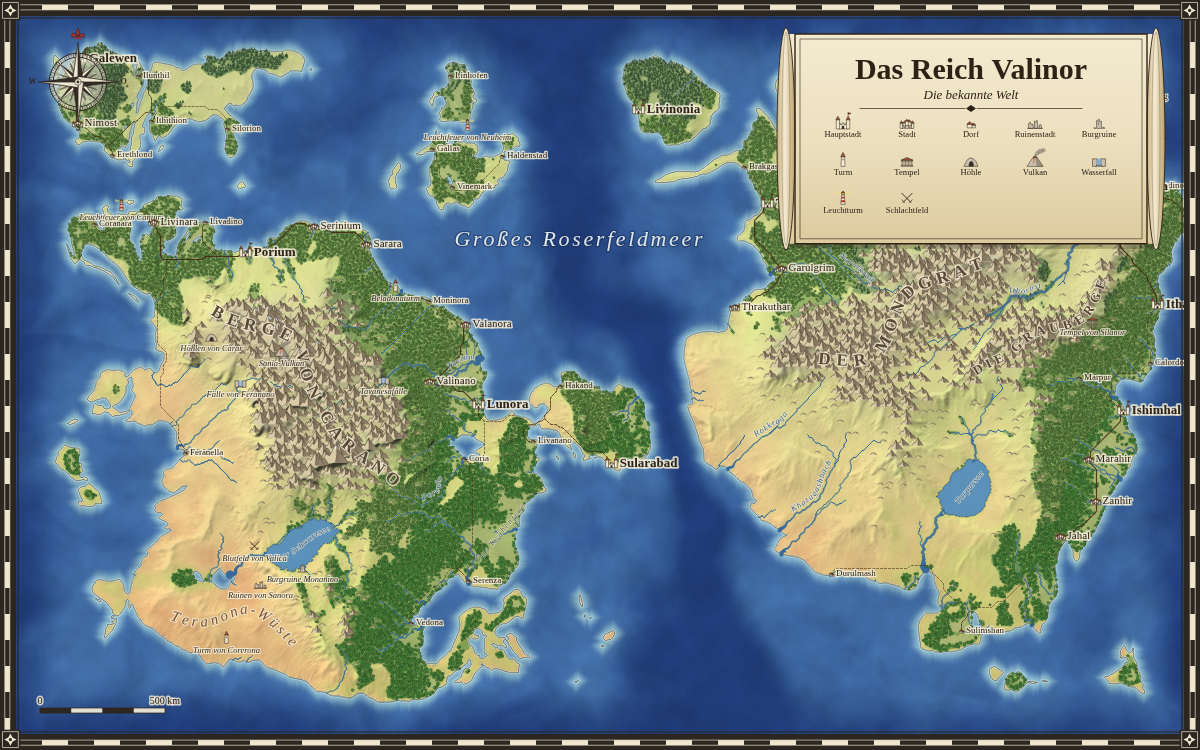
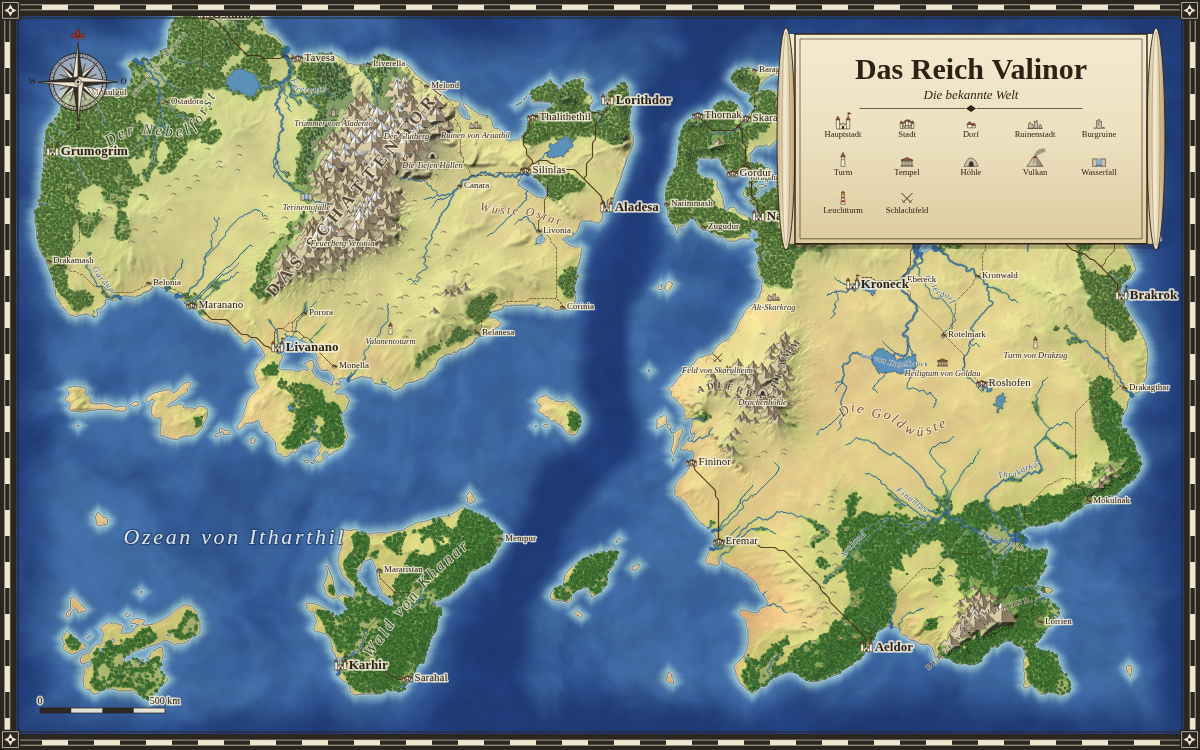
README und Vorschaubilder für Gebirgsketten, Klimazonen und Kartengrößen

diff --git a/README.md b/README.md
@@ -23,13 +23,15 @@ Die App läuft komplett im Browser. Es gibt keinen Server, keinen Build-Schritt 
 ### Weltgenerierung
 - Höhenkarte aus fraktalem Rauschen mit Domain Warping und Gebirgsketten aus Gratrauschen
 - Landformen: 2–3 etwa gleich große Kontinente (durch Meere getrennt), Superkontinent, große Insel, Archipel, Küstenregion oder freies Rauschen
-- Einstellbar: Landanteil, Gebirge, Strukturgröße, Flussdichte, Klima, Anzahl Staaten und Städte
+- Einstellbar: Kartengröße (800 × 500 bis 3200 × 2000 – dieselbe Welt, größere Karten zeigen mehr Details), Landanteil, Gebirge, Strukturgröße, Flussdichte, Klima, Anzahl Staaten und Städte
 - **Gleicher Seed = gleiche Welt**
 - Klima und Landschaftsformen: Gletscher, Hochgebirge, Tundra, Nadelwald, Laub- und Mischwald, Regenwald, Wiesen, Steppe, Savanne, Wüste, Sumpf. Entlang von Flüssen entstehen grüne Täler und Auwälder.
 - **Flüsse und Seen** aus einer echten Abflusssimulation (Senkenfüllung und Abflussakkumulation)
 - **Erosion:** Simulierte Regentropfen formen verzweigte Täler, scharfe Grate und Schwemmebenen. Die Stärke ist einstellbar, und über „Erosion anwenden“ lässt sie sich auch auf bestehende Karten anwenden.
-- **Wind und Regenschatten:** Feuchte Luft zieht vom Meer übers Land und regnet sich an Gebirgen ab, dahinter wird es trocken. Die Windrichtung folgt automatisch den Klimazonen (Westwinde, Passat aus Osten) oder wird frei gewählt.
-- **Kontinentalplatten:** Wo Platten zusammenstoßen, falten sich Gebirgsketten auf, auf See entstehen Inselbögen. Wo sie auseinanderdriften, entstehen Grabenbrüche.
+- **Klimazonen nach Breitengrad:** Jede Klima-Option entspricht einem Breitenbereich (z. B. Gemäßigt 70°–25° N, Äquator in der Mitte 72° N – 72° S). Daraus folgen Temperatur, Windgürtel und Regengürtel wie auf der Erde: feuchte Tropen, ein Wüstengürtel um 25°, feuchte Westküsten in mittleren Breiten, trockene Polargebiete.
+- **Wind und Regenschatten:** Feuchte Luft zieht vom Meer übers Land und regnet sich an Gebirgen ab, dahinter wird es trocken. Die Windrichtung folgt automatisch den Windgürteln (Passat bis ~30°, Westwinde bis ~60°, polare Ostwinde) oder wird frei gewählt. Das Innere großer Kontinente wird in kühlen Breiten trockener, Tropenwälder halten sich durch Verdunstung selbst feucht.
+- **Kontinentalplatten:** Wo Platten zusammenstoßen, falten sich lange Gebirgsketten mit Pässen und parallelen Graten auf, auf See entstehen Inselbögen. Wo sie auseinanderdriften, entstehen Grabenbrüche. An früheren Plattengrenzen liegen abgerundete Altgebirge, dazwischen Ebenen und Hügelland.
+- **Kontinente** sind zufällig gedreht und gestreckt und haben Halbinseln und Nebenkerne.
 - **Küstenvielfalt:** Sandstrände an flachen Küsten, Klippen an Steilküsten, Watt im gemäßigten Flachwasser, türkisfarbene Lagunen und Riffe in den Tropen, Fjorde an kalten Gebirgsküsten
 - **Flussmündungen:** Große Flüsse weiten sich trichterförmig, an flachen Küsten entstehen Deltaarme.
 - **Weiche Übergänge** zwischen den Landschaftsformen, mit einzelnen Bäumen vor dem Waldrand
